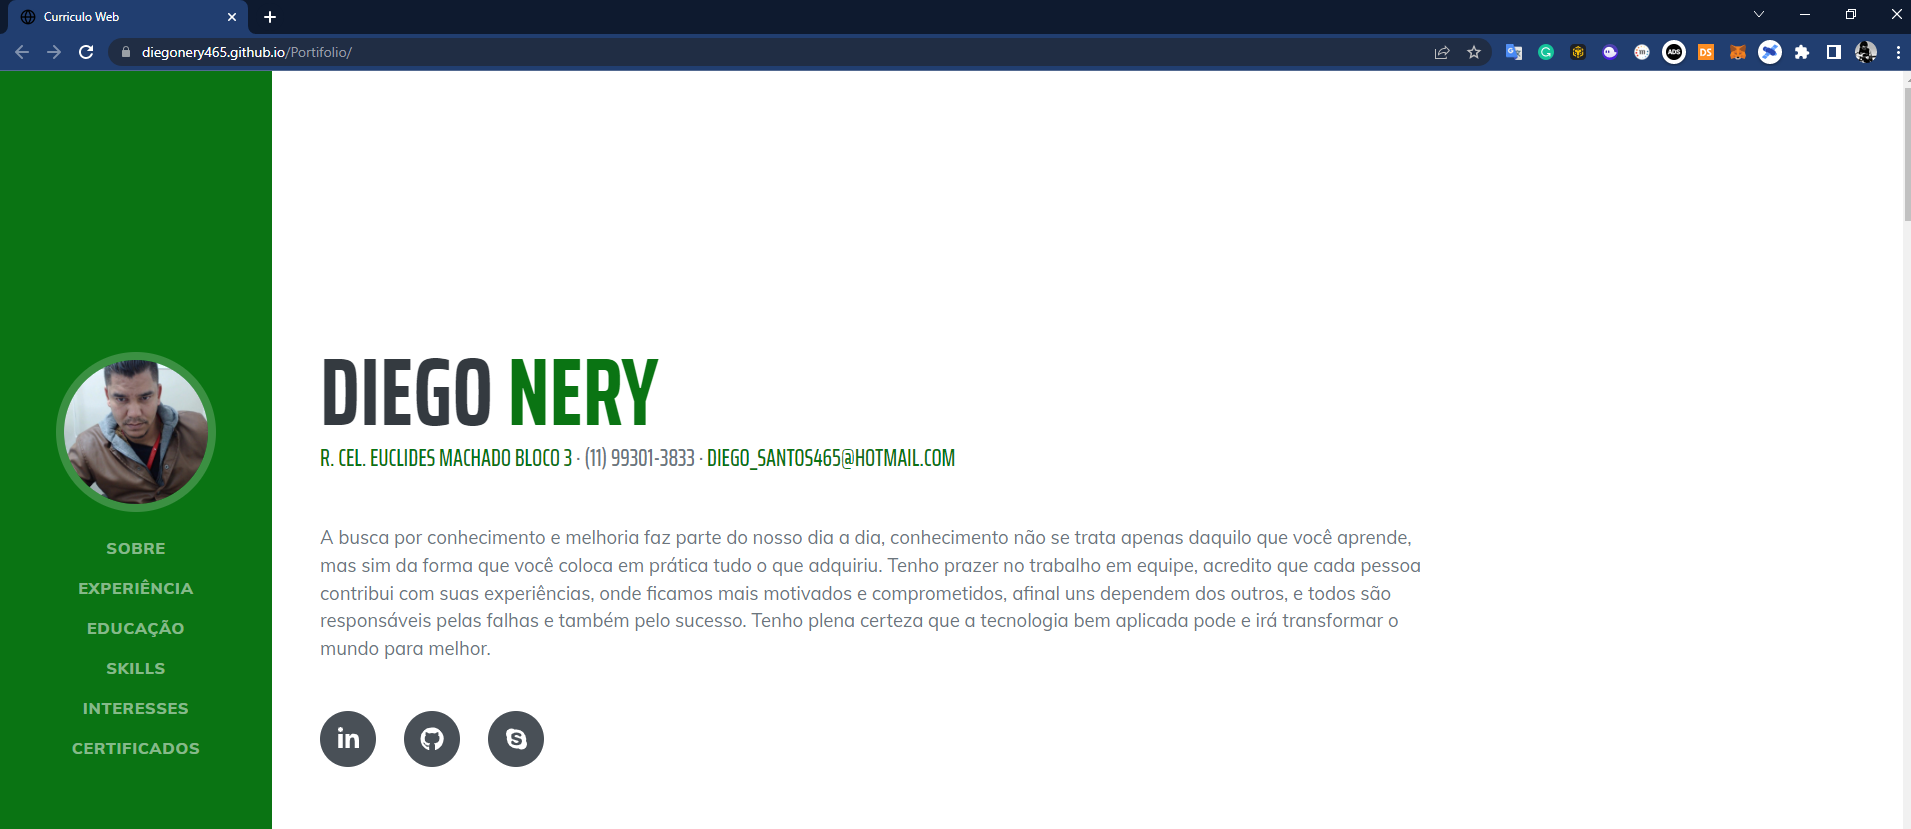
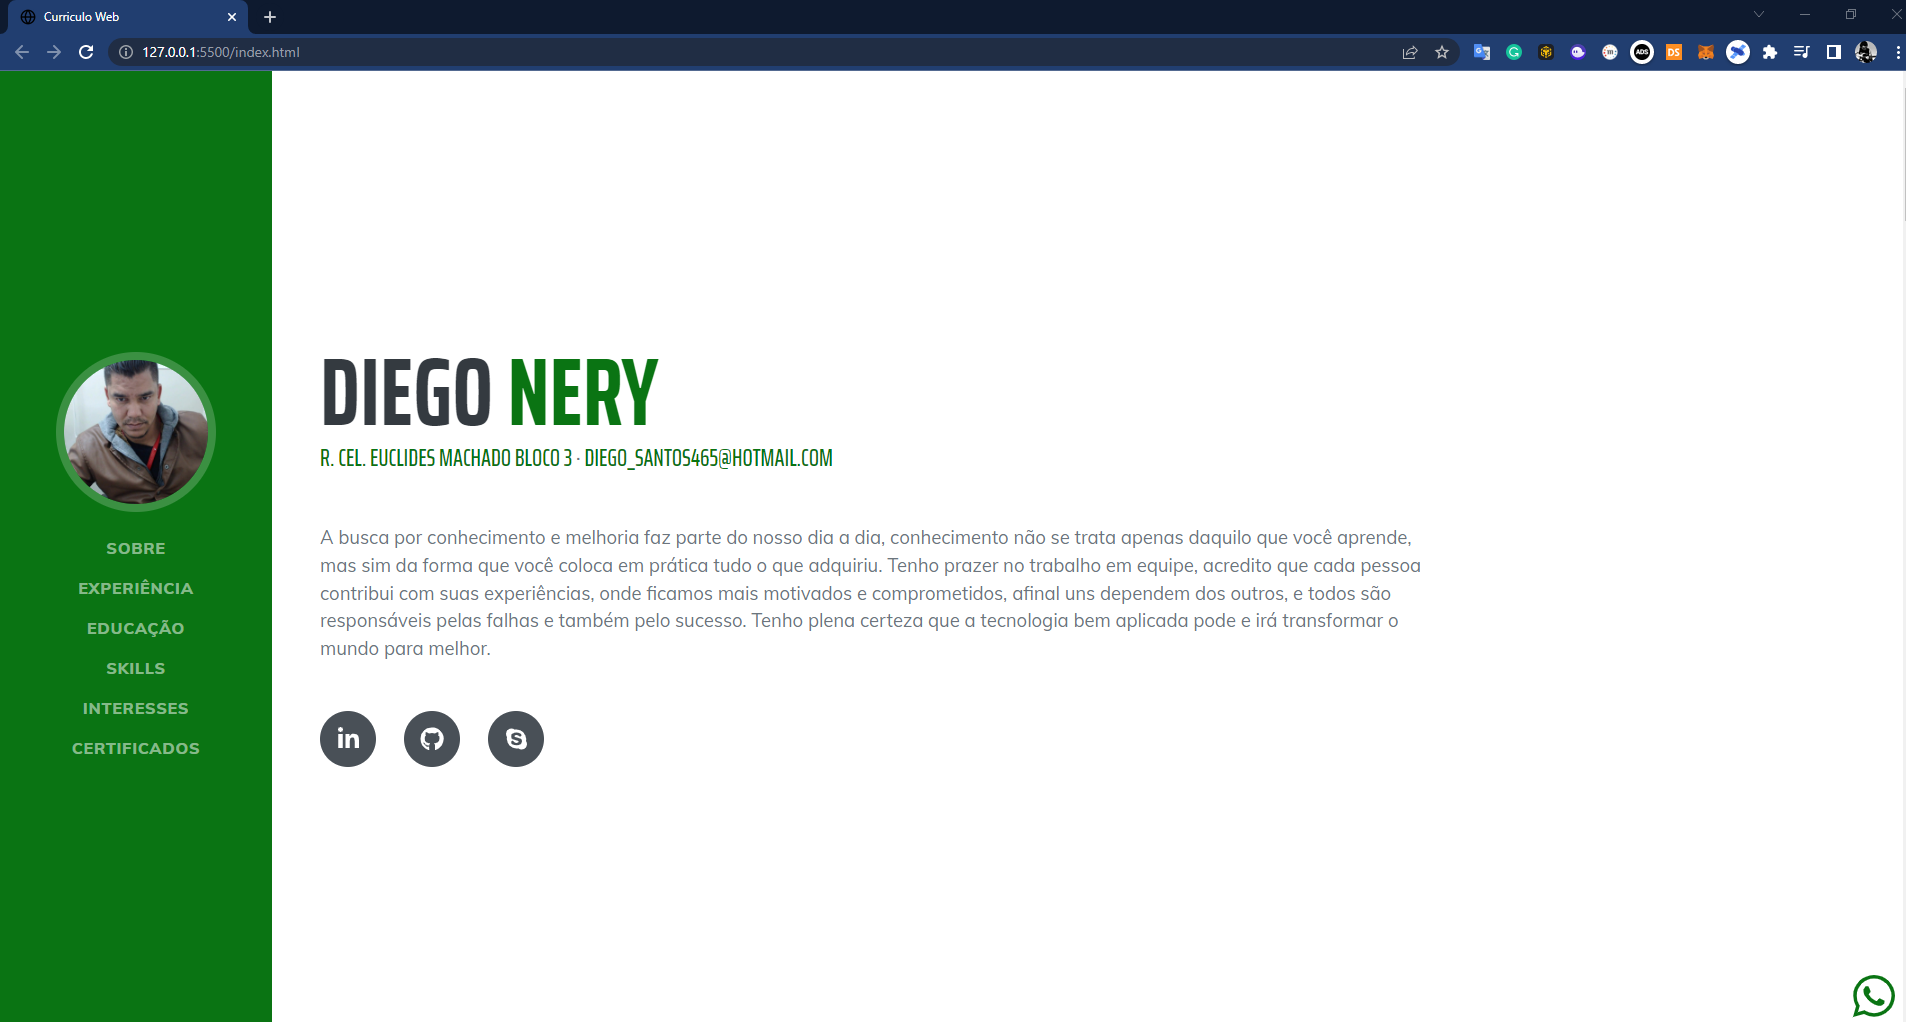
Projetos Atualizados

diff --git a/Portifolio_Simples/index.html b/Portifolio_Simples/index.html
@@ -23,7 +23,7 @@
 
         <!--fab-->
         <div class="fixed-bottom text-right p-2">
-            <a class="social-icon icon-fab" href="https://api.whatsapp.com/send?phone=5511993013833"><i class="fab fa-whatsapp"></i></a></div>
+            <a class="social-icon icon-fab" href=""><i class="fab fa-whatsapp"></i></a></div>
 
         <nav class="navbar navbar-expand-lg navbar-dark bg-primary fixed-top" id="sideNav">
             <a class="navbar-brand js-scroll-trigger" href="#page-top">
@@ -52,7 +52,7 @@
                         <span class="text-primary">Nery</span>
                     </h1>
                     <div class="subheading mb-5">
-                        <a href="https://www.google.com/maps/search/?api=1&query=Rua Coronel Euclides Machado">R. Cel. Euclides Machado bloco 3 </a> · (11) 99301-3833 ·
+                        <a href="https://www.google.com/maps/search/?api=1&query=Rua Coronel Euclides Machado">R. Cel. Euclides Machado bloco 3 </a> · 
                         <a href="mailto:diego_santos465@hotmail.com">diego_santos465@hotmail.com</a>
                     </div>
                     <p class="lead mb-5">A busca por conhecimento e melhoria faz parte do nosso dia a dia, conhecimento não se trata apenas daquilo que você aprende, mas sim da forma que você coloca em prática tudo o que adquiriu. Tenho prazer no trabalho em equipe, acredito que cada pessoa contribui com suas experiências, onde ficamos mais motivados e comprometidos, afinal uns dependem dos outros, e todos são responsáveis pelas falhas e também pelo sucesso. Tenho plena certeza que a tecnologia bem aplicada pode e irá transformar o mundo para melhor.</p>
